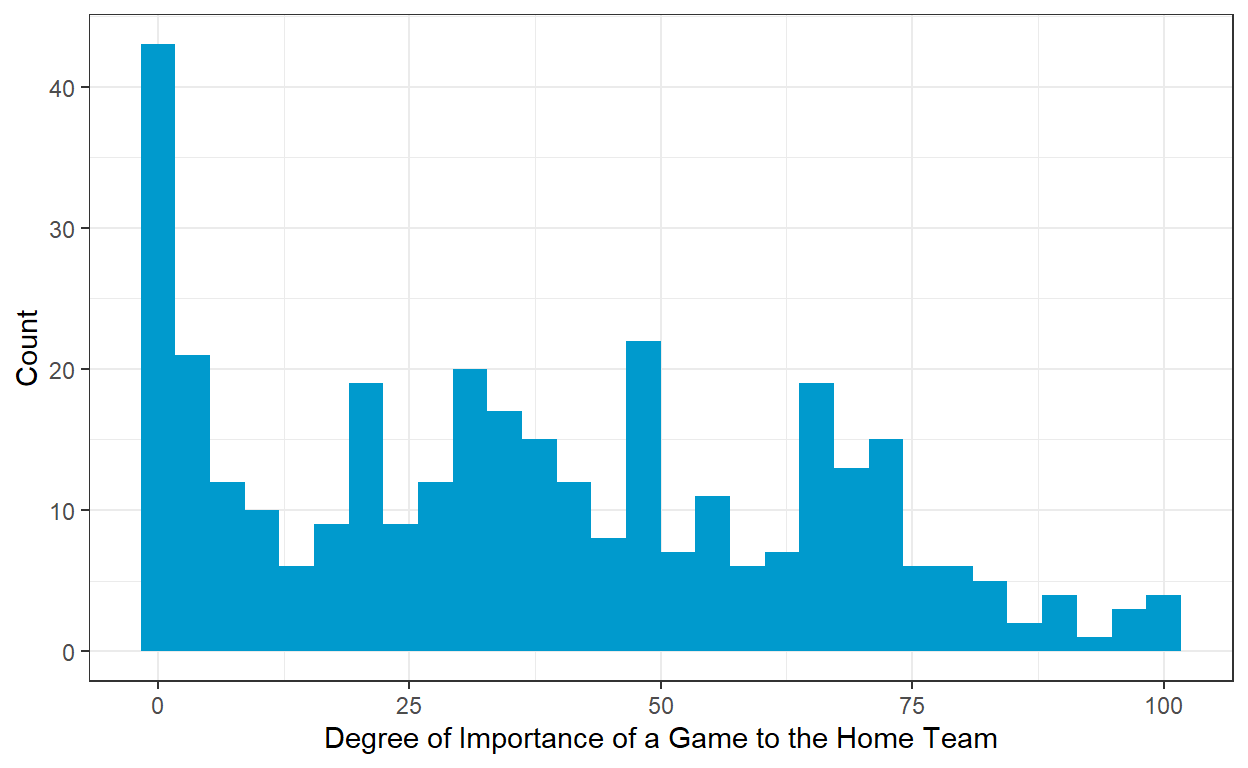
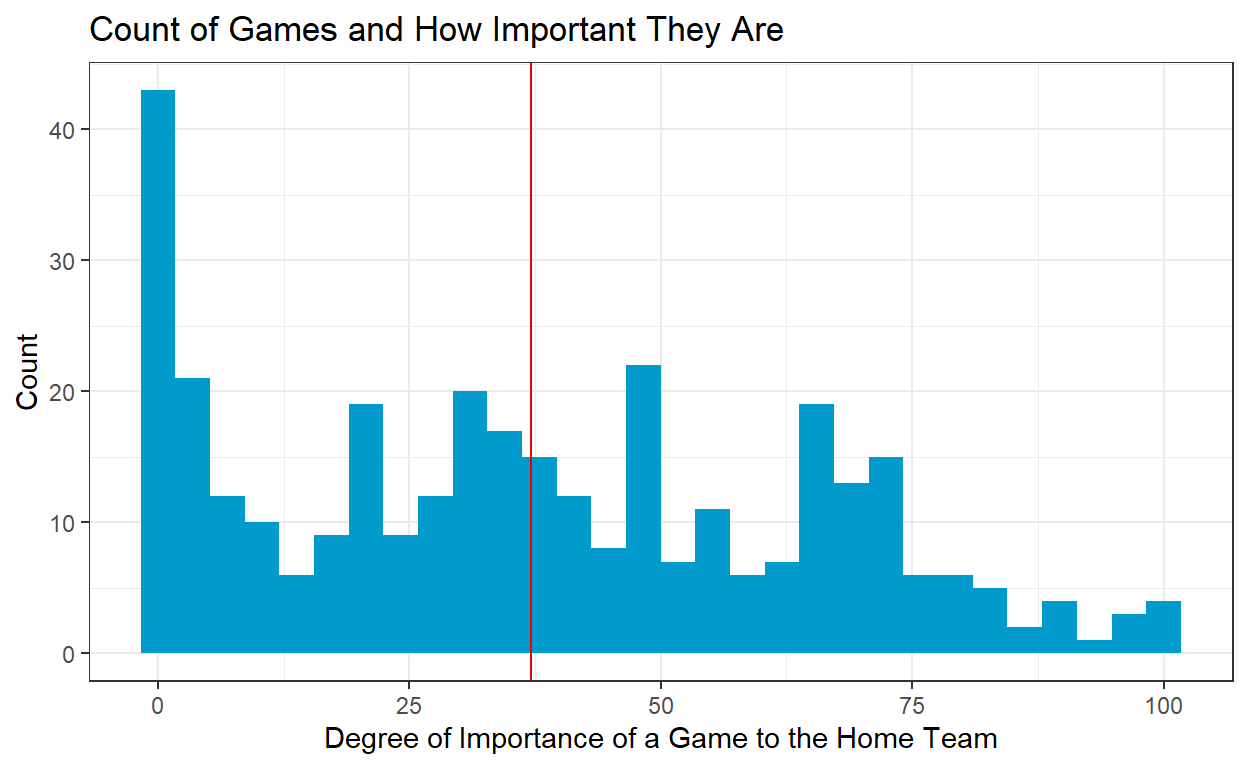
Data

diff --git a/index.html b/index.html
@@ -115,7 +115,7 @@ code span.wa { color: #5e5e5e; font-style: italic; } /* Warning */
   <!--/radix_placeholder_rmarkdown_metadata-->
   
   <script type="text/json" id="radix-resource-manifest">
-  {"type":"character","attributes":{},"value":["Data/spi_matches.csv","index_files/anchor-4.2.2/anchor.min.js","index_files/bowser-1.9.3/bowser.min.js","index_files/distill-2.2.21/template.v2.js","index_files/figure-html5/unnamed-chunk-1-1.png","index_files/figure-html5/unnamed-chunk-2-1.png","index_files/figure-html5/unnamed-chunk-3-1.png","index_files/figure-html5/unnamed-chunk-4-1.png","index_files/figure-html5/unnamed-chunk-5-1.png","index_files/figure-html5/unnamed-chunk-6-1.png","index_files/header-attrs-2.17/header-attrs.js","index_files/header-attrs-2.24/header-attrs.js","index_files/jquery-3.6.0/jquery-3.6.0.js","index_files/jquery-3.6.0/jquery-3.6.0.min.js","index_files/jquery-3.6.0/jquery-3.6.0.min.map","index_files/kePrint-0.0.1/kePrint.js","index_files/lightable-0.0.1/lightable.css","index_files/popper-2.6.0/popper.min.js","index_files/tippy-6.2.7/tippy-bundle.umd.min.js","index_files/tippy-6.2.7/tippy-light-border.css","index_files/tippy-6.2.7/tippy.css","index_files/tippy-6.2.7/tippy.umd.min.js","index_files/webcomponents-2.0.0/webcomponents.js"]}
+  {"type":"character","attributes":{},"value":["Data/spi_matches.csv","index_files/anchor-4.2.2/anchor.min.js","index_files/bowser-1.9.3/bowser.min.js","index_files/distill-2.2.21/template.v2.js","index_files/figure-html5/unnamed-chunk-1-1.png","index_files/figure-html5/unnamed-chunk-2-1.png","index_files/figure-html5/unnamed-chunk-3-1.png","index_files/figure-html5/unnamed-chunk-4-1.png","index_files/figure-html5/unnamed-chunk-5-1.png","index_files/figure-html5/unnamed-chunk-6-1.png","index_files/figure-html5/unnamed-chunk-7-1.png","index_files/header-attrs-2.17/header-attrs.js","index_files/header-attrs-2.24/header-attrs.js","index_files/jquery-3.6.0/jquery-3.6.0.js","index_files/jquery-3.6.0/jquery-3.6.0.min.js","index_files/jquery-3.6.0/jquery-3.6.0.min.map","index_files/kePrint-0.0.1/kePrint.js","index_files/lightable-0.0.1/lightable.css","index_files/popper-2.6.0/popper.min.js","index_files/tippy-6.2.7/tippy-bundle.umd.min.js","index_files/tippy-6.2.7/tippy-light-border.css","index_files/tippy-6.2.7/tippy.css","index_files/tippy-6.2.7/tippy.umd.min.js","index_files/webcomponents-2.0.0/webcomponents.js"]}
   </script>
   <!--radix_placeholder_navigation_in_header-->
   <!--/radix_placeholder_navigation_in_header-->
@@ -1693,41 +1693,69 @@ code span.wa { color: #5e5e5e; font-style: italic; } /* Warning */
 #   nsxg2 &lt;dbl&gt;, adj_score1 &lt;dbl&gt;, adj_score2 &lt;dbl&gt;, result &lt;chr&gt;,
 #   result1 &lt;dbl&gt;</code></pre>
 </div>
+<h2 id="histogram-of-games-and-their-importance">Histogram of Games and Their Importance</h2>
 <div class="layout-chunk" data-layout="l-body">
 <div class="sourceCode">
 <pre class="sourceCode r"><code class="sourceCode r"><span><span class='va'>pl_importance</span> <span class='op'>&lt;-</span> <span class='fu'><a href='https://ggplot2.tidyverse.org/reference/ggplot.html'>ggplot</a></span><span class='op'>(</span>data <span class='op'>=</span> <span class='va'>pl_table_2016</span>, mapping <span class='op'>=</span> <span class='fu'><a href='https://ggplot2.tidyverse.org/reference/aes.html'>aes</a></span><span class='op'>(</span>x <span class='op'>=</span> <span class='va'>importance1</span><span class='op'>)</span><span class='op'>)</span> <span class='op'>+</span></span>
 <span>    <span class='fu'><a href='https://ggplot2.tidyverse.org/reference/geom_histogram.html'>geom_histogram</a></span><span class='op'>(</span>fill <span class='op'>=</span> <span class='st'>"deepskyblue3"</span><span class='op'>)</span> <span class='op'>+</span></span>
-<span>    <span class='fu'><a href='https://ggplot2.tidyverse.org/reference/labs.html'>labs</a></span><span class='op'>(</span>x <span class='op'>=</span> <span class='st'>"Degree of Importance of a Game to the Home Team"</span>, y <span class='op'>=</span> <span class='st'>"Count"</span><span class='op'>)</span> <span class='op'>+</span></span>
-<span>  <span class='fu'><a href='https://ggplot2.tidyverse.org/reference/ggtheme.html'>theme_bw</a></span><span class='op'>(</span><span class='op'>)</span></span>
+<span>    <span class='fu'><a href='https://ggplot2.tidyverse.org/reference/labs.html'>labs</a></span><span class='op'>(</span>x <span class='op'>=</span> <span class='st'>"Degree of Importance of a Game to the Home Team"</span>, y <span class='op'>=</span> <span class='st'>"Count"</span>, title <span class='op'>=</span> <span class='st'>"Count of Games and How Important They Are"</span><span class='op'>)</span> <span class='op'>+</span></span>
+<span>  <span class='fu'><a href='https://ggplot2.tidyverse.org/reference/ggtheme.html'>theme_bw</a></span><span class='op'>(</span><span class='op'>)</span> <span class='op'>+</span></span>
+<span>  <span class='fu'><a href='https://ggplot2.tidyverse.org/reference/geom_abline.html'>geom_vline</a></span><span class='op'>(</span><span class='fu'><a href='https://ggplot2.tidyverse.org/reference/aes.html'>aes</a></span><span class='op'>(</span>xintercept <span class='op'>=</span> <span class='fu'><a href='https://rdrr.io/r/base/mean.html'>mean</a></span><span class='op'>(</span><span class='va'>pl_table_2016</span><span class='op'>$</span><span class='va'>importance1</span><span class='op'>)</span><span class='op'>)</span>, color <span class='op'>=</span> <span class='st'>"red2"</span><span class='op'>)</span></span>
 <span>  </span>
 <span><span class='va'>pl_importance</span></span></code></pre>
 </div>
 <p><img src="index_files/figure-html5/unnamed-chunk-3-1.png" width="624" /></p>
 </div>
+<p>This histogram visualizes the spread of the importance of games. In the data, there are certainly more games that are less important than important. Most of the data is skewed to the left of the histogram. The below 50 points The vertical line shows the mean of the importance of games to a home team, which is about 37. So an average game’s importance was about 37 out of 100.</p>
+<h2 id="table-of-the-home-teams-results">Table of the Home Team’s Results</h2>
+<div class="layout-chunk" data-layout="l-body">
+<div class="sourceCode">
+<pre class="sourceCode r"><code class="sourceCode r"><span><span class='va'>count_table</span> <span class='op'>&lt;-</span> <span class='va'>pl_table_2016</span> <span class='op'>|&gt;</span></span>
+<span>  <span class='fu'><a href='https://dplyr.tidyverse.org/reference/group_by.html'>group_by</a></span><span class='op'>(</span><span class='va'>result</span><span class='op'>)</span> <span class='op'>|&gt;</span></span>
+<span>  <span class='fu'><a href='https://dplyr.tidyverse.org/reference/summarise.html'>summarize</a></span><span class='op'>(</span>n <span class='op'>=</span> <span class='fu'><a href='https://dplyr.tidyverse.org/reference/context.html'>n</a></span><span class='op'>(</span><span class='op'>)</span><span class='op'>)</span></span>
+<span></span>
+<span><span class='fu'>knitr</span><span class='fu'>::</span><span class='fu'><a href='https://rdrr.io/pkg/knitr/man/kable.html'>kable</a></span><span class='op'>(</span><span class='va'>count_table</span>, col.names <span class='op'>=</span> <span class='fu'><a href='https://rdrr.io/r/base/c.html'>c</a></span><span class='op'>(</span><span class='st'>"Result of Home Games"</span>, <span class='st'>"Total Count"</span><span class='op'>)</span><span class='op'>)</span></span></code></pre>
+</div>
+<table>
+<thead>
+<tr class="header">
+<th style="text-align: left;">Result of Home Games</th>
+<th style="text-align: right;">Total Count</th>
+</tr>
+</thead>
+<tbody>
+<tr class="odd">
+<td style="text-align: left;">Home Win</td>
+<td style="text-align: right;">166</td>
+</tr>
+<tr class="even">
+<td style="text-align: left;">Draw</td>
+<td style="text-align: right;">76</td>
+</tr>
+<tr class="odd">
+<td style="text-align: left;">Home Loss</td>
+<td style="text-align: right;">102</td>
+</tr>
+</tbody>
+</table>
+</div>
+<p>This table breaks down the total number of each results that are included in the data. There are 166 home wins, 76 draws, and 102 home losses. The table may show a</p>
+<h2 id="scatterplot-of-the-results-of-a-game-in-relation-to-the-importance-of-that-game-to-a-home-team">Scatterplot of the Results of a Game in Relation to the Importance of that Game to a Home Team</h2>
 <div class="layout-chunk" data-layout="l-body">
 <div class="sourceCode">
 <pre class="sourceCode r"><code class="sourceCode r"><span><span class='va'>pl_importance_results</span> <span class='op'>&lt;-</span> <span class='fu'><a href='https://ggplot2.tidyverse.org/reference/ggplot.html'>ggplot</a></span><span class='op'>(</span>data <span class='op'>=</span> <span class='va'>pl_table_2016</span>, mapping <span class='op'>=</span> <span class='fu'><a href='https://ggplot2.tidyverse.org/reference/aes.html'>aes</a></span><span class='op'>(</span>x <span class='op'>=</span> <span class='va'>importance1</span>, y <span class='op'>=</span> <span class='va'>result1</span><span class='op'>)</span><span class='op'>)</span> <span class='op'>+</span></span>
 <span>  <span class='fu'><a href='https://ggplot2.tidyverse.org/reference/geom_point.html'>geom_point</a></span><span class='op'>(</span>alpha <span class='op'>=</span> <span class='fl'>0.3</span>, color <span class='op'>=</span> <span class='st'>"navy"</span><span class='op'>)</span> <span class='op'>+</span></span>
 <span>  <span class='fu'><a href='https://ggplot2.tidyverse.org/reference/ggtheme.html'>theme_bw</a></span><span class='op'>(</span><span class='op'>)</span> <span class='op'>+</span></span>
 <span>  <span class='fu'><a href='https://ggplot2.tidyverse.org/reference/geom_smooth.html'>geom_smooth</a></span><span class='op'>(</span>method <span class='op'>=</span> <span class='st'>"lm"</span>, color <span class='op'>=</span> <span class='st'>"dodgerblue2"</span>, fill <span class='op'>=</span> <span class='st'>"skyblue"</span><span class='op'>)</span> <span class='op'>+</span></span>
-<span>  <span class='fu'><a href='https://ggplot2.tidyverse.org/reference/labs.html'>labs</a></span><span class='op'>(</span>x <span class='op'>=</span> <span class='st'>"Importance of the game to a Home Team"</span>, y <span class='op'>=</span> <span class='st'>"Result of the Game (1 = win/draw and 0 = loss)"</span>, title <span class='op'>=</span> <span class='st'>"Results of Games in Relation to the Importance of the Game to a Home Team"</span><span class='op'>)</span></span>
+<span>  <span class='fu'><a href='https://ggplot2.tidyverse.org/reference/labs.html'>labs</a></span><span class='op'>(</span>x <span class='op'>=</span> <span class='st'>"Importance of the game to a Home Team"</span>, y <span class='op'>=</span> <span class='st'>"Result of the Game (1 = win and 0 = loss/draw)"</span>, title <span class='op'>=</span> <span class='st'>"Results of Games in Relation to the Importance of the Game to a Home Team"</span><span class='op'>)</span></span>
 <span>  </span>
 <span></span>
 <span><span class='va'>pl_importance_results</span></span></code></pre>
 </div>
-<p><img src="index_files/figure-html5/unnamed-chunk-4-1.png" width="624" /></p>
-</div>
-<div class="layout-chunk" data-layout="l-body">
-<div class="sourceCode">
-<pre class="sourceCode r"><code class="sourceCode r"><span><span class='va'>count_table</span> <span class='op'>&lt;-</span> <span class='va'>pl_table_2016</span> <span class='op'>|&gt;</span></span>
-<span>  <span class='fu'><a href='https://ggplot2.tidyverse.org/reference/ggplot.html'>ggplot</a></span><span class='op'>(</span><span class='fu'><a href='https://ggplot2.tidyverse.org/reference/aes.html'>aes</a></span><span class='op'>(</span>x <span class='op'>=</span> <span class='va'>result</span><span class='op'>)</span><span class='op'>)</span> <span class='op'>+</span></span>
-<span>  <span class='fu'><a href='https://ggplot2.tidyverse.org/reference/geom_bar.html'>geom_bar</a></span><span class='op'>(</span>mapping <span class='op'>=</span> <span class='fu'><a href='https://ggplot2.tidyverse.org/reference/aes.html'>aes</a></span><span class='op'>(</span>fill <span class='op'>=</span> <span class='va'>result</span><span class='op'>)</span><span class='op'>)</span> <span class='op'>+</span></span>
-<span>  <span class='fu'><a href='https://ggplot2.tidyverse.org/reference/ggtheme.html'>theme_light</a></span><span class='op'>(</span><span class='op'>)</span></span>
-<span><span class='va'>count_table</span></span></code></pre>
-</div>
 <p><img src="index_files/figure-html5/unnamed-chunk-5-1.png" width="624" /></p>
 </div>
-<p>Linear Regression for Importance of Games for Premier League Teams</p>
+<h2 id="confounders">Confounders</h2>
+<h3 id="expected-goals-xg">Expected Goals (xG)</h3>
 <div class="layout-chunk" data-layout="l-body">
 <div class="sourceCode">
 <pre class="sourceCode r"><code class="sourceCode r"><span><span class='kw'><a href='https://rdrr.io/r/base/library.html'>library</a></span><span class='op'>(</span><span class='va'><a href='https://github.com/leifeld/texreg/'>texreg</a></span><span class='op'>)</span></span>
@@ -1765,16 +1793,32 @@ F-statistic: 12.8 on 9 and 334 DF,  p-value: &lt;2e-16</code></pre>
 <div class="sourceCode">
 <pre class="sourceCode r"><code class="sourceCode r"><span><span class='va'>fit2</span> <span class='op'>&lt;-</span> <span class='fu'><a href='https://rdrr.io/r/stats/lm.html'>lm</a></span><span class='op'>(</span><span class='va'>result1</span> <span class='op'>~</span> <span class='va'>importance1</span>, data <span class='op'>=</span> <span class='va'>pl_table_2016</span><span class='op'>)</span></span>
 <span></span>
-<span><span class='va'>pl_table_2016</span> <span class='op'>|&gt;</span></span>
-<span>  <span class='fu'><a href='https://ggplot2.tidyverse.org/reference/ggplot.html'>ggplot</a></span><span class='op'>(</span><span class='fu'><a href='https://ggplot2.tidyverse.org/reference/aes.html'>aes</a></span><span class='op'>(</span>x <span class='op'>=</span> <span class='va'>importance1</span>, y <span class='op'>=</span> <span class='va'>xg1</span><span class='op'>)</span><span class='op'>)</span> <span class='op'>+</span></span>
-<span>  <span class='fu'><a href='https://ggplot2.tidyverse.org/reference/geom_point.html'>geom_point</a></span><span class='op'>(</span>alpha <span class='op'>=</span> <span class='fl'>0.5</span><span class='op'>)</span> <span class='op'>+</span></span>
-<span>  <span class='fu'><a href='https://ggplot2.tidyverse.org/reference/facet_wrap.html'>facet_wrap</a></span><span class='op'>(</span><span class='op'>~</span><span class='va'>result1</span><span class='op'>)</span> <span class='op'>+</span></span>
-<span>  <span class='fu'><a href='https://ggplot2.tidyverse.org/reference/labs.html'>labs</a></span><span class='op'>(</span>x <span class='op'>=</span> <span class='st'>"Importance of the Game to a Home Team"</span>, y <span class='op'>=</span> <span class='st'>"Expected Goals"</span>,title <span class='op'>=</span> <span class='st'>"Regression Between the Importance of a Home Match to a Team and the Result of the Match"</span><span class='op'>)</span> <span class='op'>+</span></span>
+<span><span class='va'>xg1_point</span> <span class='op'>&lt;-</span> <span class='va'>pl_table_2016</span> <span class='op'>|&gt;</span></span>
+<span>  <span class='fu'><a href='https://ggplot2.tidyverse.org/reference/ggplot.html'>ggplot</a></span><span class='op'>(</span><span class='fu'><a href='https://ggplot2.tidyverse.org/reference/aes.html'>aes</a></span><span class='op'>(</span>x <span class='op'>=</span> <span class='va'>xg1</span>, y <span class='op'>=</span> <span class='va'>result1</span><span class='op'>)</span><span class='op'>)</span> <span class='op'>+</span></span>
+<span>  <span class='fu'><a href='https://ggplot2.tidyverse.org/reference/geom_point.html'>geom_point</a></span><span class='op'>(</span>alpha <span class='op'>=</span> <span class='fl'>0.3</span>, color <span class='op'>=</span> <span class='st'>"seagreen4"</span><span class='op'>)</span> <span class='op'>+</span></span>
+<span>  <span class='fu'><a href='https://ggplot2.tidyverse.org/reference/labs.html'>labs</a></span><span class='op'>(</span>x <span class='op'>=</span> <span class='st'>"Expected Goals in a Game by the Home Team"</span>, y <span class='op'>=</span> <span class='st'>"Result of the Game (1 = win and 0 = loss/draw)"</span>, title <span class='op'>=</span> <span class='st'>"Plot of the Relationship Between xG and the Result of a Game"</span><span class='op'>)</span> <span class='op'>+</span></span>
 <span>  <span class='fu'><a href='https://ggplot2.tidyverse.org/reference/ggtheme.html'>theme_bw</a></span><span class='op'>(</span><span class='op'>)</span> <span class='op'>+</span></span>
-<span>  <span class='fu'><a href='https://ggplot2.tidyverse.org/reference/geom_smooth.html'>geom_smooth</a></span><span class='op'>(</span>method <span class='op'>=</span> <span class='st'>"lm"</span>, color <span class='op'>=</span> <span class='st'>"red2"</span>, fill <span class='op'>=</span> <span class='st'>"coral"</span><span class='op'>)</span></span></code></pre>
+<span>  <span class='fu'><a href='https://ggplot2.tidyverse.org/reference/geom_smooth.html'>geom_smooth</a></span><span class='op'>(</span>method <span class='op'>=</span> <span class='st'>"lm"</span>, color <span class='op'>=</span> <span class='st'>"cadetblue3"</span>, fill <span class='op'>=</span> <span class='st'>"lightcyan2"</span><span class='op'>)</span></span>
+<span></span>
+<span><span class='va'>xg1_point</span></span></code></pre>
 </div>
 <p><img src="index_files/figure-html5/unnamed-chunk-6-1.png" width="624" /></p>
 </div>
+<h3 id="spi-rating">SPI Rating</h3>
+<div class="layout-chunk" data-layout="l-body">
+<div class="sourceCode">
+<pre class="sourceCode r"><code class="sourceCode r"><span><span class='va'>spi_rating_plot</span> <span class='op'>&lt;-</span> <span class='va'>pl_table_2016</span> <span class='op'>|&gt;</span></span>
+<span>  <span class='fu'><a href='https://ggplot2.tidyverse.org/reference/ggplot.html'>ggplot</a></span><span class='op'>(</span><span class='fu'><a href='https://ggplot2.tidyverse.org/reference/aes.html'>aes</a></span><span class='op'>(</span>x <span class='op'>=</span> <span class='va'>spi1</span>, y <span class='op'>=</span> <span class='va'>result1</span><span class='op'>)</span><span class='op'>)</span> <span class='op'>+</span></span>
+<span>  <span class='fu'><a href='https://ggplot2.tidyverse.org/reference/geom_point.html'>geom_point</a></span><span class='op'>(</span>alpha <span class='op'>=</span> <span class='fl'>0.3</span>, color <span class='op'>=</span> <span class='st'>"maroon"</span><span class='op'>)</span> <span class='op'>+</span></span>
+<span>  <span class='fu'><a href='https://ggplot2.tidyverse.org/reference/labs.html'>labs</a></span><span class='op'>(</span>x <span class='op'>=</span> <span class='st'>"SPI Rating of the Home Team"</span>, y <span class='op'>=</span> <span class='st'>"Result of the Game (1 = win and 0 = loss/draw)"</span>,title <span class='op'>=</span> <span class='st'>"Relationship Between Soccer Power Index Rating (SPI) and the Result of a Game"</span><span class='op'>)</span> <span class='op'>+</span></span>
+<span>  <span class='fu'><a href='https://ggplot2.tidyverse.org/reference/ggtheme.html'>theme_bw</a></span><span class='op'>(</span><span class='op'>)</span> <span class='op'>+</span></span>
+<span>  <span class='fu'><a href='https://ggplot2.tidyverse.org/reference/geom_smooth.html'>geom_smooth</a></span><span class='op'>(</span>method <span class='op'>=</span> <span class='st'>"lm"</span>, color <span class='op'>=</span> <span class='st'>"slateblue4"</span>, fill <span class='op'>=</span> <span class='st'>"lightslateblue"</span><span class='op'>)</span></span>
+<span></span>
+<span><span class='va'>spi_rating_plot</span></span></code></pre>
+</div>
+<p><img src="index_files/figure-html5/unnamed-chunk-7-1.png" width="624" /></p>
+</div>
+<h1 id="results">Results</h1>
 <div class="layout-chunk" data-layout="l-body">
 <div class="sourceCode">
 <pre class="sourceCode r"><code class="sourceCode r"><span><span class='kw'><a href='https://rdrr.io/r/base/library.html'>library</a></span><span class='op'>(</span><span class='va'><a href='https://broom.tidymodels.org/'>broom</a></span><span class='op'>)</span></span>
@@ -2067,10 +2111,9 @@ R2 Adj.
 </tbody>
 </table>
 </div>
-<h2 id="results">Results</h2>
-<p>[INSERT INFO HERE]</p>
-<h2 id="conclusion">Conclusion</h2>
+<h1 id="conclusion">Conclusion</h1>
 <p>The purpose of this study was to observe the relationship between the importance of games to a Barclay’s Premier League home team and the result of those games in the 2016-2017 season. I hypothesized that as the importance of the games increased, teams would get more wins than losses/draws.</p>
+<p>Given more time and money, I would improve this analysis by broadening the scope of this study to other soccer leagues across the world.</p>
 <div class="sourceCode" id="cb5"><pre class="sourceCode r distill-force-highlighting-css"><code class="sourceCode r"></code></pre></div>
 <!--radix_placeholder_article_footer-->
 <!--/radix_placeholder_article_footer-->
